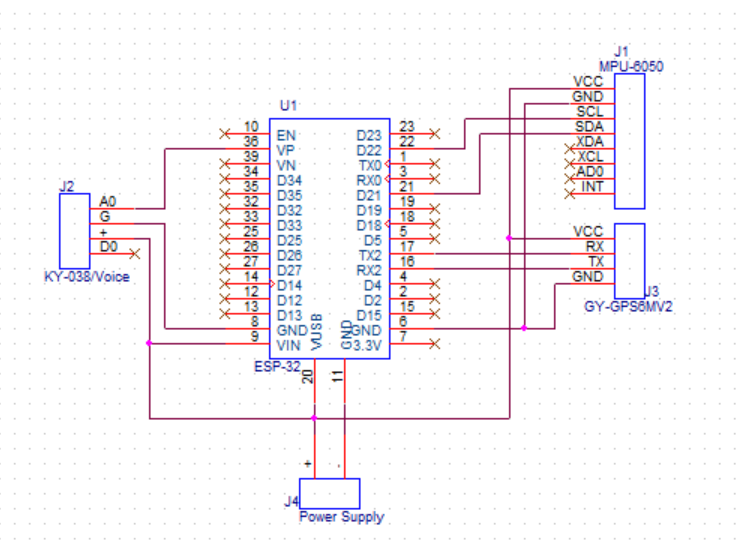
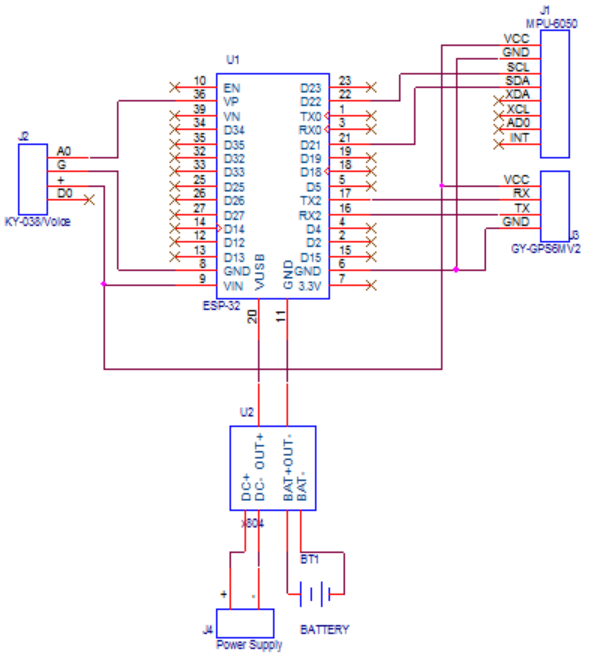
Scheme remade

Changed region(s): [[0.0, 0.0, 0.9851, 0.9778]]

diff --git a/README.md b/README.md
@@ -24,5 +24,3 @@
 - **Любомир Станев** - *Разработчик на платката и работа със сензори*
 - **Николай Йорданов** - *Софтуер разработчик и логика на проекта*
 - **Христо Люцканов** - *Разработчик на дизайн и схематика*
-
-## **Дизайн**
